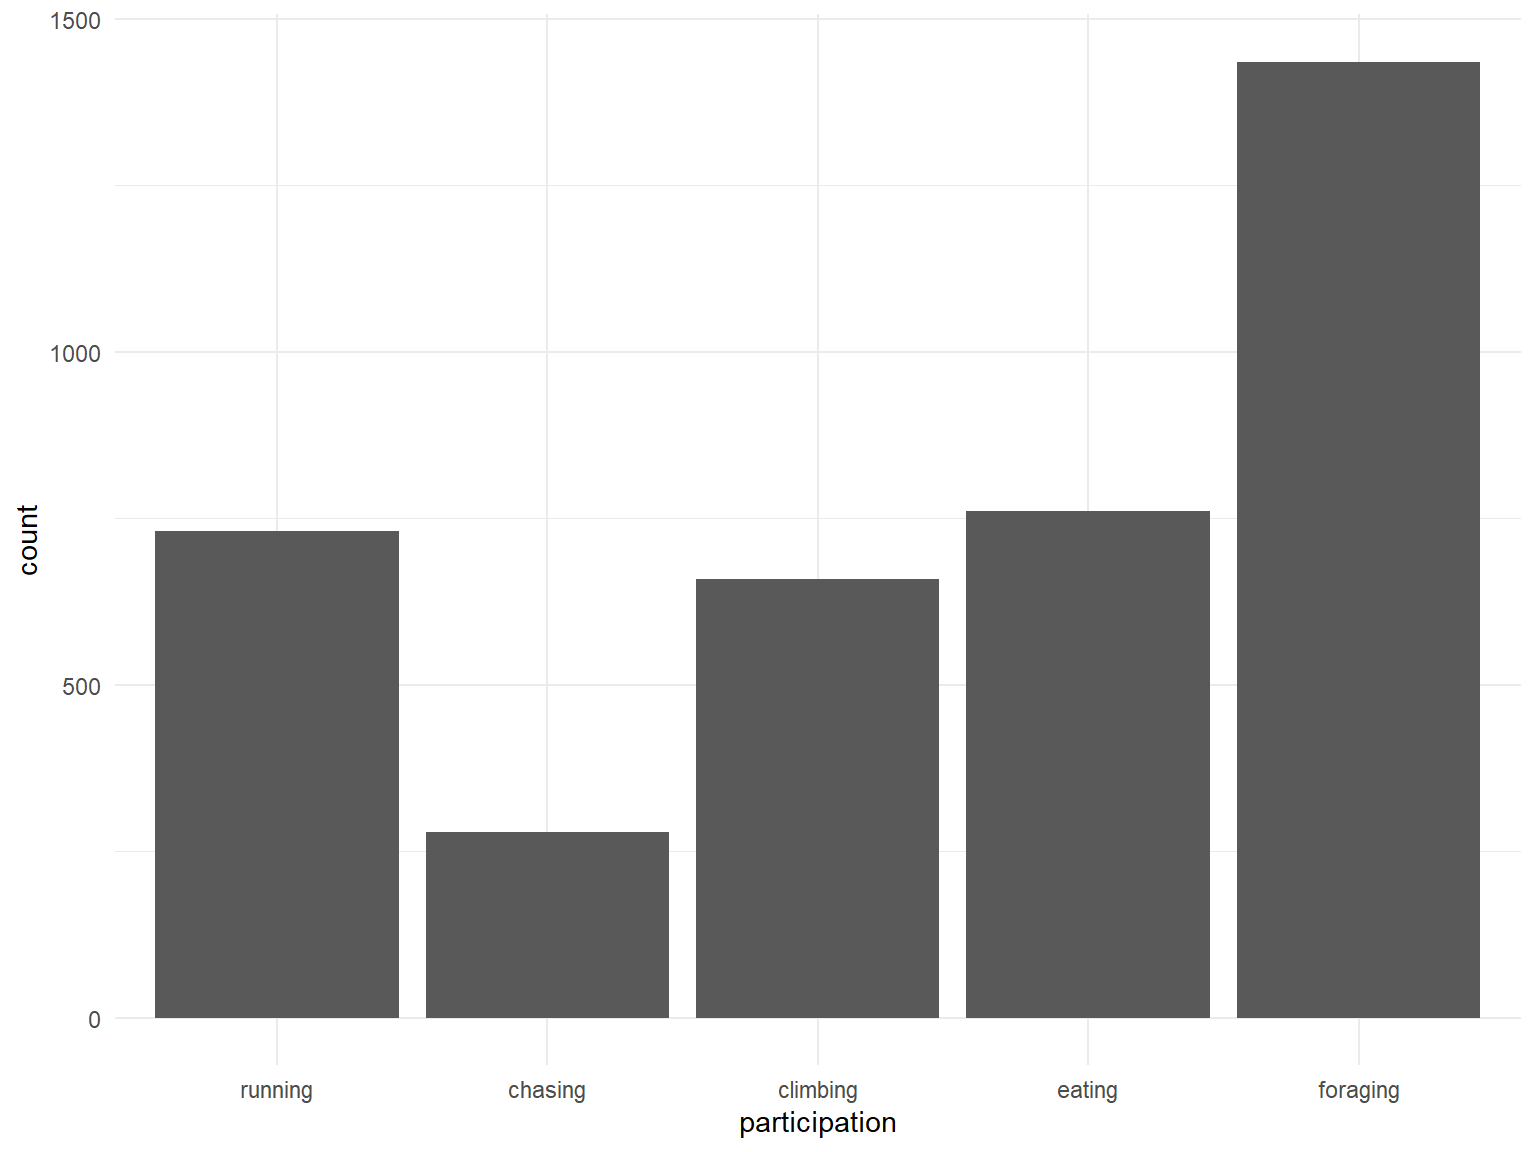
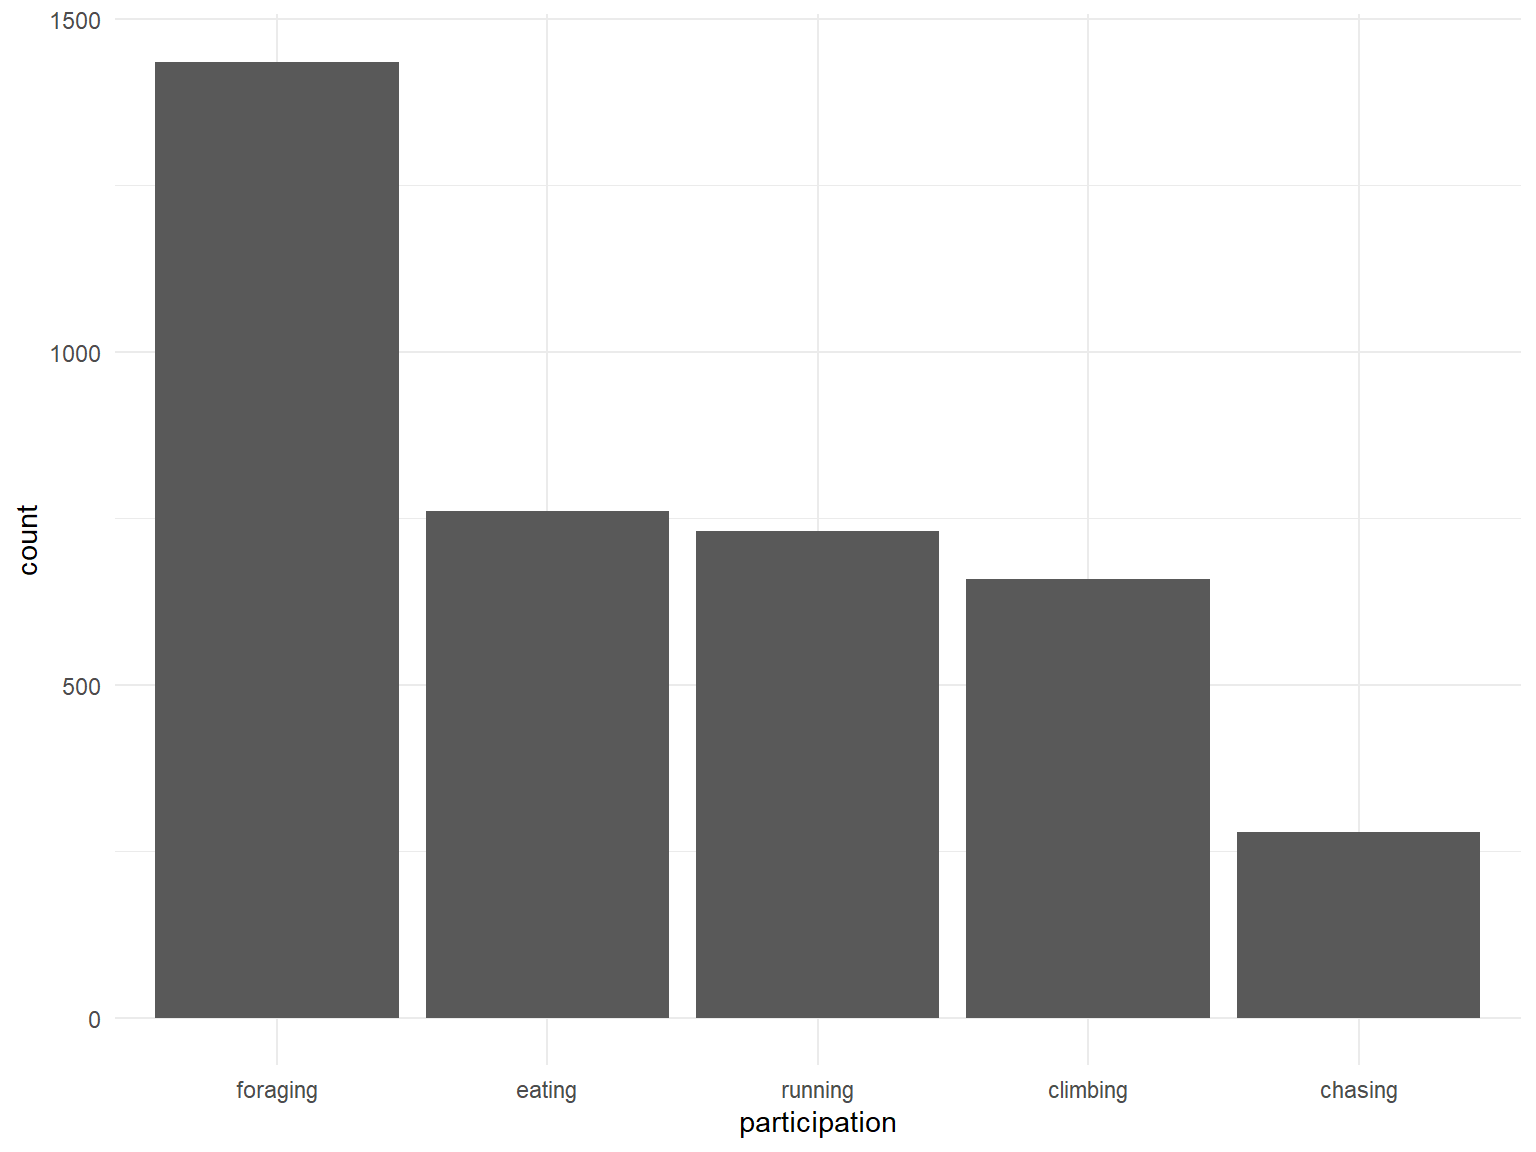
finished squirrel behavior chart

diff --git a/common_behaviors.html b/common_behaviors.html
@@ -12,7 +12,7 @@
 
 
 
-<title>Most Common Squirrel Behaviors</title>
+<title>About Central Park Squirrels</title>
 
 <script src="site_libs/jquery-1.11.3/jquery.min.js"></script>
 <meta name="viewport" content="width=device-width, initial-scale=1" />
@@ -300,70 +300,12 @@ $(document).ready(function () {
 
 
 
-<h1 class="title toc-ignore">Most Common Squirrel Behaviors</h1>
+<h1 class="title toc-ignore">About Central Park Squirrels</h1>
 
 </div>
 
 
-<p>Most Common Squirrel Behaviors</p>
-<pre class="r"><code>squirrel_data =
-  read_csv(&quot;./data/squirrel_data.csv&quot;) %&gt;% 
-  janitor::clean_names() %&gt;%
-  select(unique_squirrel_id, running, chasing, climbing, eating, foraging) %&gt;%
-  mutate(
-    running = as.factor(running),
-    chasing = as.factor(chasing),
-    climbing = as.factor(climbing),
-    eating = as.factor(eating),
-    foraging = as.factor(foraging),
-    running = 
-      recode(running, &quot;FALSE&quot; = &quot;no&quot;, &quot;TRUE&quot; = &quot;running&quot;),
-    chasing =
-      recode(chasing, &quot;FALSE&quot; = &quot;no&quot;, &quot;TRUE&quot; = &quot;chasing&quot;),
-    climbing =
-      recode(climbing, &quot;FALSE&quot; = &quot;no&quot;, &quot;TRUE&quot; = &quot;climbing&quot;),
-    eating =
-      recode(eating, &quot;FALSE&quot; = &quot;no&quot;, &quot;TRUE&quot; = &quot;eating&quot;),
-    foraging =
-      recode(foraging, &quot;FALSE&quot; = &quot;no&quot;, &quot;TRUE&quot; = &quot;foraging&quot;)) %&gt;%
-  pivot_longer(
-  running:foraging,
- names_to = &quot;activity&quot;,
- values_to = &quot;participation&quot;) %&gt;%
-    mutate(participation = na_if(participation, &quot;no&quot;)) %&gt;%
-  view</code></pre>
-<pre><code>## Parsed with column specification:
-## cols(
-##   .default = col_character(),
-##   X = col_double(),
-##   Y = col_double(),
-##   Date = col_double(),
-##   `Hectare Squirrel Number` = col_double(),
-##   Running = col_logical(),
-##   Chasing = col_logical(),
-##   Climbing = col_logical(),
-##   Eating = col_logical(),
-##   Foraging = col_logical(),
-##   Kuks = col_logical(),
-##   Quaas = col_logical(),
-##   Moans = col_logical(),
-##   `Tail flags` = col_logical(),
-##   `Tail twitches` = col_logical(),
-##   Approaches = col_logical(),
-##   Indifferent = col_logical(),
-##   `Runs from` = col_logical(),
-##   `Zip Codes` = col_number(),
-##   `Community Districts` = col_double(),
-##   `Borough Boundaries` = col_double()
-##   # ... with 2 more columns
-## )</code></pre>
-<pre><code>## See spec(...) for full column specifications.</code></pre>
-<pre class="r"><code>squirrel_plot_data = squirrel_data[!is.na(squirrel_data$participation),] 
-
-squirrel_plot_data %&gt;%
-ggplot(aes(x = participation)) +
-  geom_bar()</code></pre>
-<p><img src="common_behaviors_files/figure-html/unnamed-chunk-2-1.png" width="90%" /></p>
+<p><img src="common_behaviors_files/figure-html/behavior_plot-1.png" width="90%" /></p>
 
 
 
